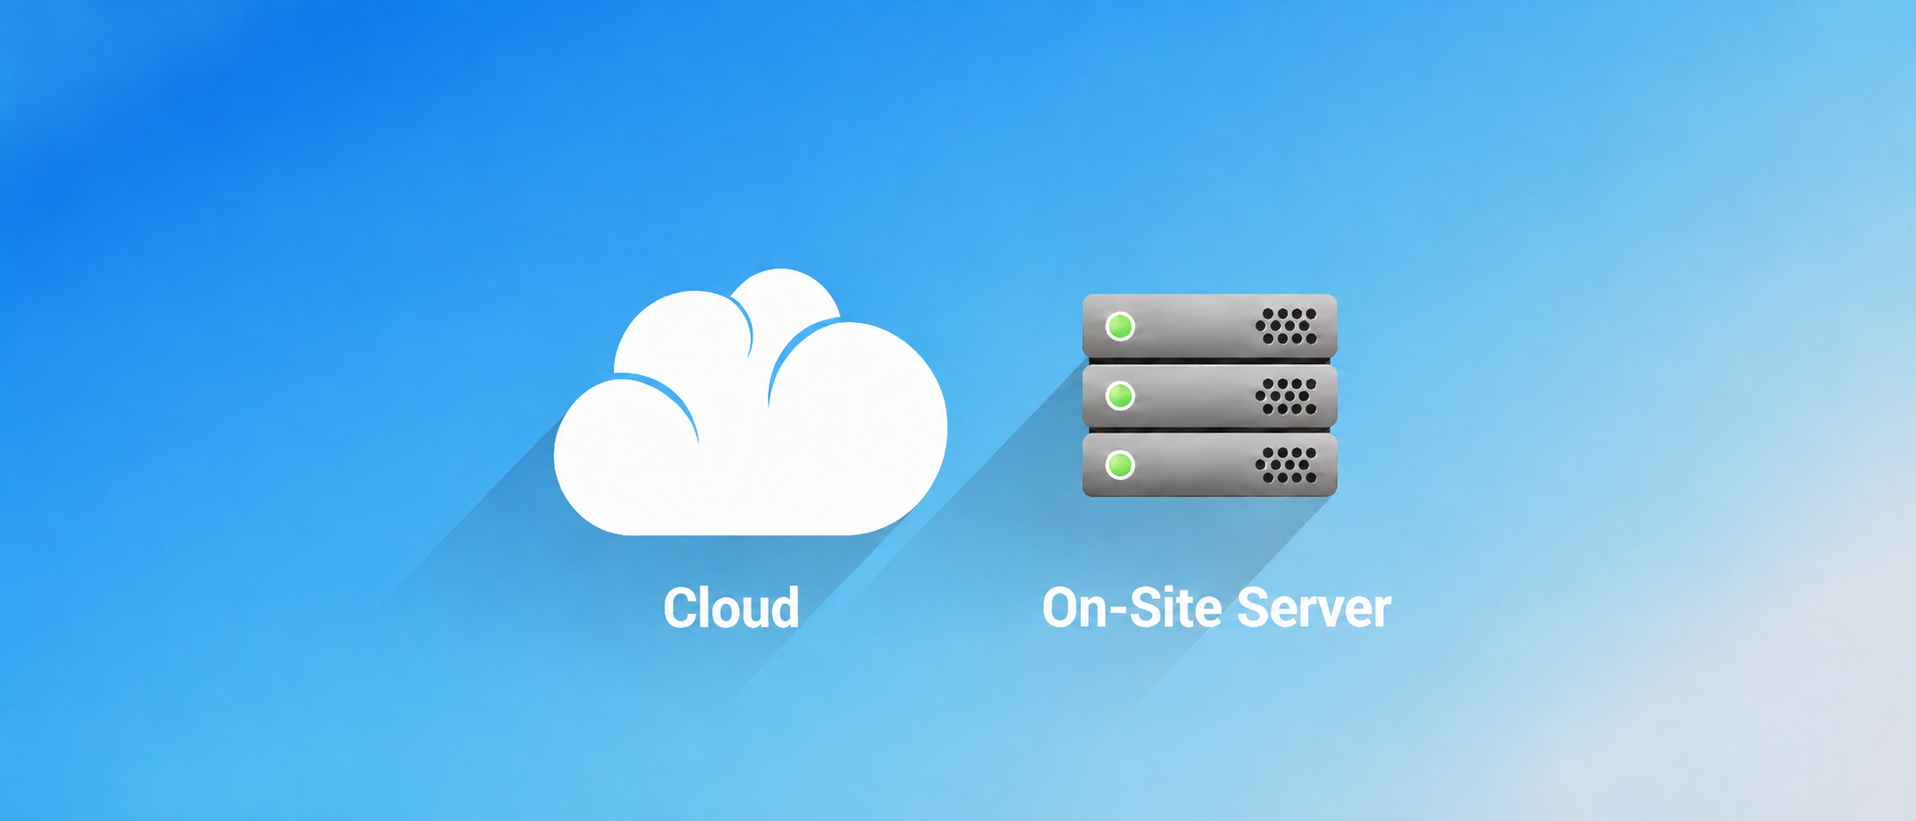
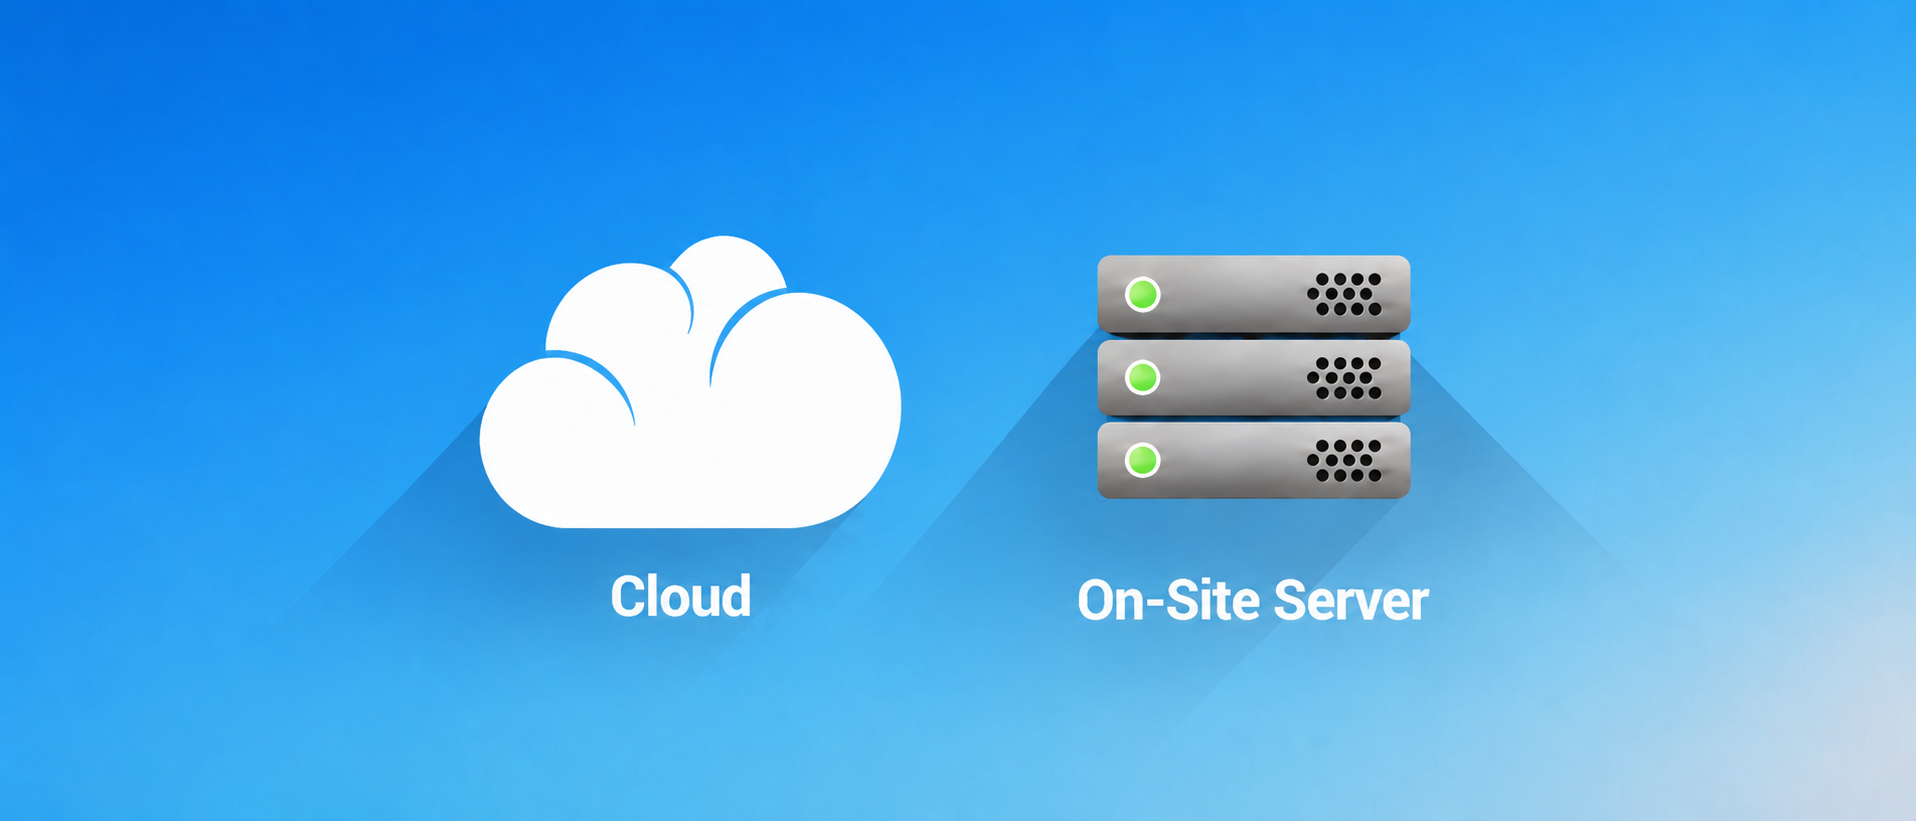
Add combined Outlook/Thunderbird image, clean up Plug-In/Appliance boxes
- Add new Outlook+Thunderbird combined image, use on Home and Domain pages
- Remove redundant Outlook/Thunderbird and Cloud/On-Site Server text labels
  (now baked into the images themselves)
- Add #EAECF3 / #EEF0F4 background, remove crop styling, tune zoom/position
  on Plug-In and Appliance image boxes on Home and Domain pages

diff --git a/src/pages/join/EmailDomain.jsx b/src/pages/join/EmailDomain.jsx
@@ -2,7 +2,7 @@
 import CloseButton from "../../components/ui/CloseButton.jsx";
 import domainProtocolImg from "../../assets/images/4th section.avif";
 import digitalDomainImg from "../../assets/images/digital-domain-diagram-v6-no-connector.png";
-import outlookImg from "../../assets/images/outlook-image-90-square.png";
+import outlookThunderbirdImg from "../../assets/images/outlook and thunderbird.png";
 import emailInboxImg from "../../assets/images/email-inbox-v4-gray-header.png";
 
 export default function EmailDomain() {
@@ -57,22 +57,15 @@ export default function EmailDomain() {
                 Plug-In
               </h3>
               <div className="flex flex-col overflow-hidden rounded-[28px] border-2 border-black bg-white">
-                <div className="flex h-[140px] items-center justify-center gap-4 bg-[#EEF0F4] px-5 sm:h-[200px] sm:gap-12">
+                <div className="flex h-[140px] items-center justify-center overflow-hidden bg-[#EEF0F4] px-5 sm:h-[200px]">
                   <img
-                    src={outlookImg}
-                    alt="Microsoft Outlook"
-                    className="h-[90px] w-[90px] max-w-full rounded-2xl object-cover sm:h-[140px] sm:w-[140px]"
-                  />
-                  <img
-                    src="/assets/images/thunderbird new pick.avif"
-                    alt="Mozilla Thunderbird"
-                    className="h-[90px] w-[90px] max-w-full rounded-2xl object-cover sm:h-[140px] sm:w-[140px]"
+                    src={outlookThunderbirdImg}
+                    alt="Microsoft Outlook and Mozilla Thunderbird"
+                    className="h-full w-full translate-y-1 scale-[1.5] object-contain"
                   />
                 </div>
                 <div className="flex flex-1 flex-col gap-3 p-7 pb-10">
                   <ul className="grid grid-cols-2 gap-x-6 gap-y-4 list-none pl-0 text-center text-[14px] leading-[1.65] text-ink-muted sm:text-[15px]">
-                    <li>Outlook</li>
-                    <li>Thunderbird</li>
                     <li>Linux Window</li>
                     <li>Windows</li>
                     <li>
@@ -93,7 +86,7 @@ export default function EmailDomain() {
                   <img
                     src={digitalDomainImg}
                     alt="Cloud and server email hosting"
-                    className="h-full w-full scale-[1.7] object-cover"
+                    className="h-full w-full scale-[1.42] object-contain"
                   />
                 </div>
                 {/* Content split into two columns beneath the image — Cloud
@@ -101,9 +94,6 @@ export default function EmailDomain() {
                     under the server rack icon) */}
                 <div className="grid grid-cols-2 gap-x-6 gap-y-4 p-7 pb-10 text-center text-[14px] leading-[1.65] text-ink-muted sm:text-[15px]">
                   <div className="space-y-4">
-                    <p className="text-[13px] font-bold uppercase tracking-[0.1em] text-ink">
-                      Cloud
-                    </p>
                     <p>
                       Microsoft Email
                       <br />
@@ -131,9 +121,6 @@ export default function EmailDomain() {
                   </div>
 
                   <div className="space-y-4">
-                    <p className="text-[13px] font-bold uppercase tracking-[0.1em] text-ink">
-                      On-Site Server
-                    </p>
                     <p>
                       Linux
                       <br />

diff --git a/src/pages/Home.jsx b/src/pages/Home.jsx
@@ -4,7 +4,7 @@ import infoBoxImg from "../assets/images/email-inbox-v4-gray-header.png";
 import heroInfoBoxImg from "../assets/images/email-inbox-v4-gray-header.png";
 import domainProtectionImg from "../assets/images/3rd section left image.avif";
 import whoCanUseImg from "../assets/images/email-marketing-verified-v9.png";
-import outlookImg from "../assets/images/outlook-image-90-square.png";
+import outlookThunderbirdImg from "../assets/images/outlook and thunderbird.png";
 import callerIdDesktopImg from "../../telecom Webpage/assets/images/products/desktop-phone-v3-verified.png";
 import callerIdHandsetImg from "../../telecom Webpage/assets/images/products/phishflagger-callerid-v6.png";
 import emailPhoneImg from "../../telecom Webpage/assets/images/products/PhishFlagger-Email v6.png";
@@ -477,16 +477,11 @@ export default function Home() {
             <span className="mb-5 whitespace-nowrap text-center text-[22px] font-semibold leading-tight text-ink sm:text-[25px]">
               Client Plug-In
             </span>
-            <div className="flex h-[140px] w-full max-w-[300px] items-center justify-center gap-10 overflow-hidden rounded-2xl border-2 border-black bg-[#f7f8fb] p-3 sm:h-[190px] sm:max-w-[460px] sm:gap-16 sm:p-6">
+            <div className="flex h-[140px] w-full max-w-[300px] items-center justify-center overflow-hidden rounded-2xl border-2 border-black bg-[#EAECF3] p-3 sm:h-[190px] sm:max-w-[460px] sm:p-6">
               <img
-                src={outlookImg}
-                alt="Microsoft Outlook"
-                className="h-[104px] w-[104px] rounded-xl object-cover sm:h-[140px] sm:w-[140px]"
-              />
-              <img
-                src="/assets/images/thunderbird new pick.avif"
-                alt="Mozilla Thunderbird"
-                className="h-[104px] w-[104px] rounded-xl object-cover sm:h-[140px] sm:w-[140px]"
+                src={outlookThunderbirdImg}
+                alt="Microsoft Outlook and Mozilla Thunderbird"
+                className="h-full w-full translate-y-2 scale-[1.7] object-contain"
               />
             </div>
             <p className="flex h-[130px] w-full max-w-[300px] items-center justify-center p-6 text-center text-[22px] leading-[1.6] text-ink sm:h-[130px] sm:max-w-[460px] sm:p-8 sm:text-[22px]">
@@ -540,7 +535,7 @@ export default function Home() {
               <img
                 src={cloudServerImg}
                 alt="Cloud and server appliance"
-                className="h-full w-full scale-150 object-contain"
+                className="h-full w-full scale-[1.42] object-contain"
               />
             </div>
             <p className="flex h-[130px] w-full max-w-[300px] items-center justify-center p-6 text-center text-[22px] leading-[1.6] text-ink sm:h-[130px] sm:max-w-[460px] sm:p-8 sm:text-[22px]">
